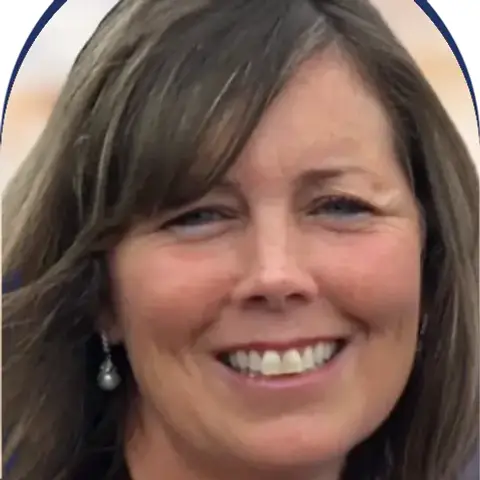
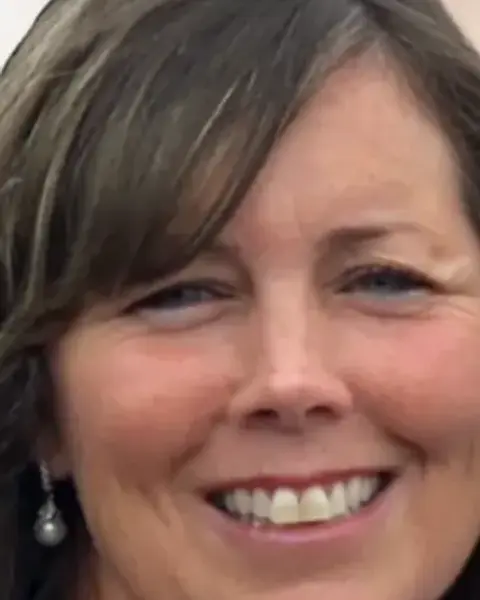
Reframe team photos as portrait cards; Marvin is COO
The circles looked cramped because a square crop is the wrong shape for these
sources. The four originals are head-and-shoulders portraits inside a 476x800
oval, and the widest square that fits inside that oval without catching its
navy ring is not wide enough to hold a head with any air around it, so faces
filled the frame edge to edge.

They are now 4:5 portrait cards. For each of the four ovals the crop is the
largest 4:5 rectangle that fits strictly inside the oval, clear of the ring,
found by searching the alpha mask rather than by eye; Gina's is narrower
because her head sits higher in her frame than the others'. Joe's is cut from
his full-resolution original to the same proportions. All five export at
480x600, and the card renders at 176x220 with matching aspect, so nothing is
stretched.

An intermediate attempt tightened Marvin's crop to match head sizes and cut his
chin; that was reverted in favour of one uniform framing, with only Gina's
adjusted.

Marvin's role is now COO. His bio still describes his digital marketing and web
background, which was not part of this change.

Verified on a clean build at 1280px and 390px: no 4xx, no overflow, aspect
ratio matches the source, and every image decodes on mobile (the full-page
screenshot shows Gina's blank only because it captures before lazy-loaded
below-fold images decode).

Claude-Session: https://claude.ai/code/session_01YbwdWomrMFeQTGPU3sWu3d

diff --git a/tiger-digital-upload/components/TeamGrid.tsx b/tiger-digital-upload/components/TeamGrid.tsx
@@ -6,10 +6,13 @@ import { team } from "@/lib/site";
  * used to take, which puts the emphasis on the names and the bios rather than
  * on five large portraits.
  *
- * The files in public/team are square face crops, cut from inside the oval
- * portraits the originals were framed in. Cropping here instead would slice a
- * square off the top of an 800px-tall oval, which cut chins off and let the
- * oval's navy ring show as an arc inside the circle.
+ * The files in public/team are 4:5 portrait crops, cut from inside the oval
+ * portraits the originals were framed in (the originals are in git history at
+ * fab8934). A square crop was tried first and read as cramped: the oval leaves
+ * no room for a square wide enough to hold a head with any air around it, so
+ * faces ended up filling the frame edge to edge. A portrait rectangle fits the
+ * way these were actually shot, head and shoulders, and it is cut to stay clear
+ * of the navy ring baked into the oval.
  */
 export default function TeamGrid({ limit }: { limit?: number }) {
   const list = limit ? team.slice(0, limit) : team;
@@ -21,9 +24,9 @@ export default function TeamGrid({ limit }: { limit?: number }) {
             src={m.photo}
             alt={`${m.name}, ${m.role} at Tiger Digital`}
             width={480}
-            height={480}
-            sizes="192px"
-            className="h-48 w-48 rounded-full border border-line bg-cream object-cover"
+            height={600}
+            sizes="176px"
+            className="h-[13.75rem] w-44 rounded-lg border border-line bg-cream object-cover"
           />
           <h3 className="mt-6 font-display font-bold text-lg tracking-tight">{m.name}</h3>
           <p className="mt-1.5 text-sm text-tiger font-semibold">{m.role}</p>

diff --git a/tiger-digital-upload/lib/site.ts b/tiger-digital-upload/lib/site.ts
@@ -268,7 +268,7 @@ export const team = [
   },
   {
     name: "Marvin Bermudez",
-    role: "Digital Marketing & Web",
+    role: "COO",
     photo: "/team/marvin.webp",
     bio: "Marv has extensive experience in digital marketing and web development, with a focus on increasing online visibility and generating qualified leads. Google Ads Certified, specializing in SEO, PPC, social, email, and website optimization.",
   },
